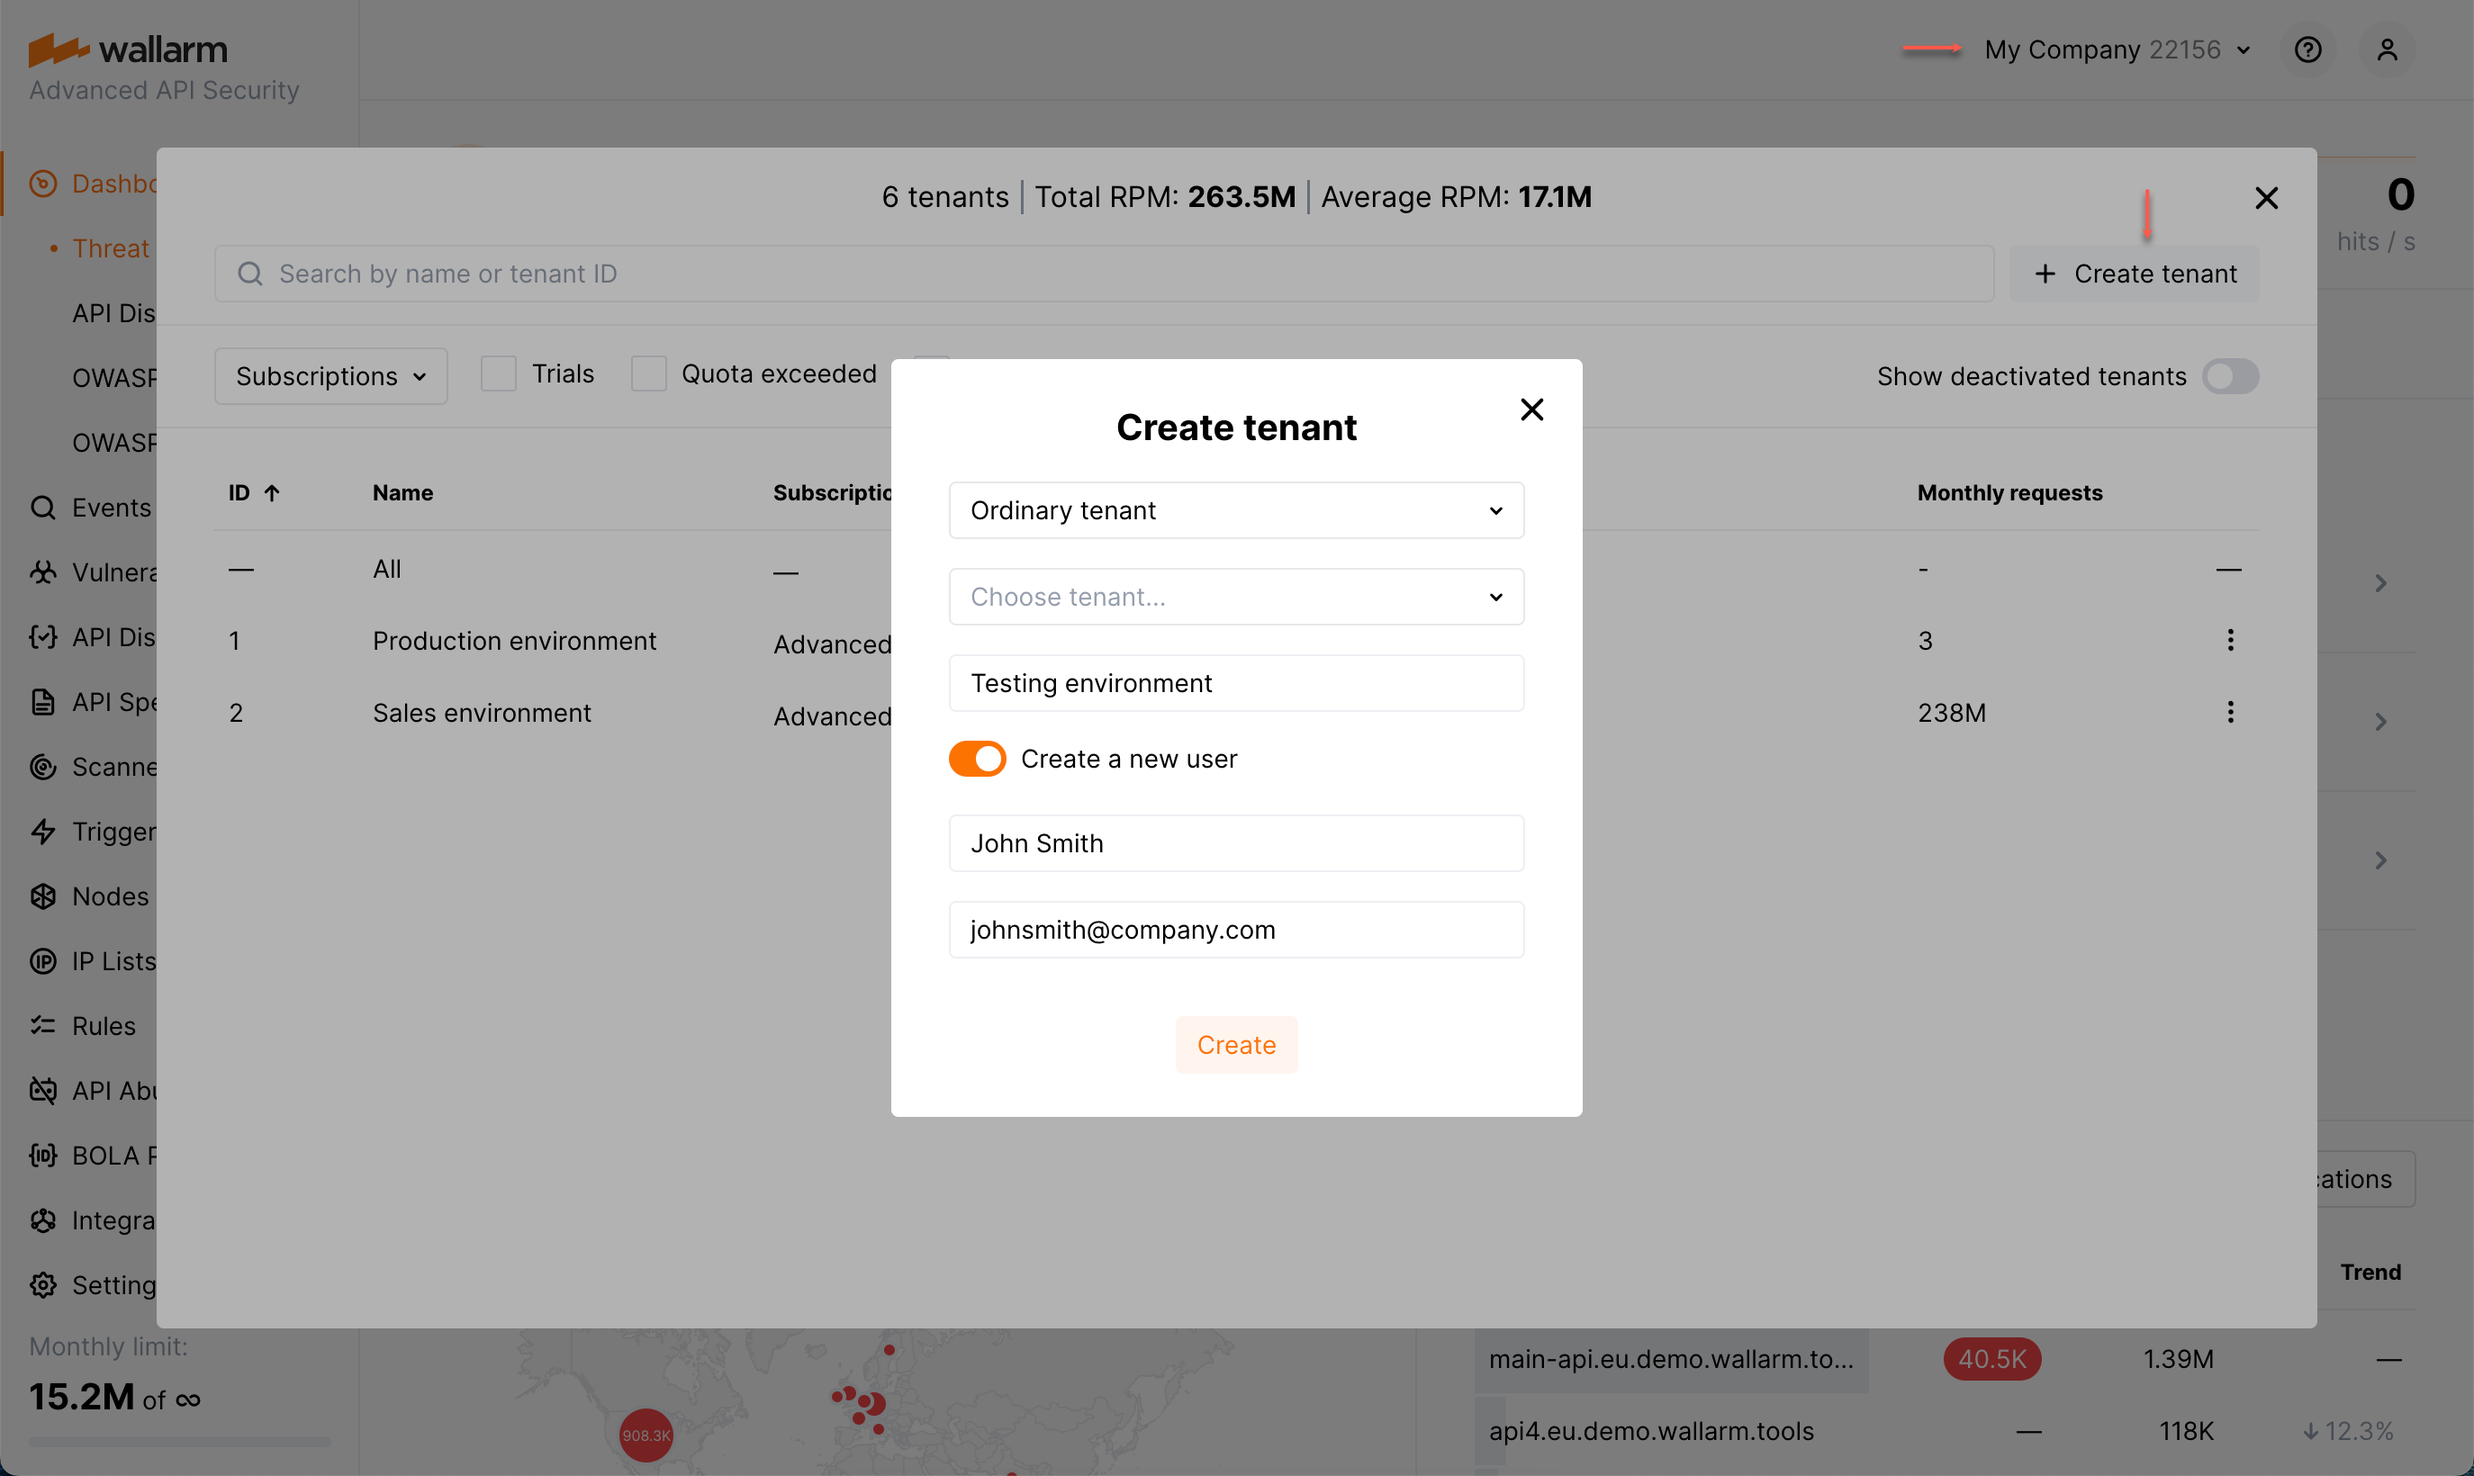
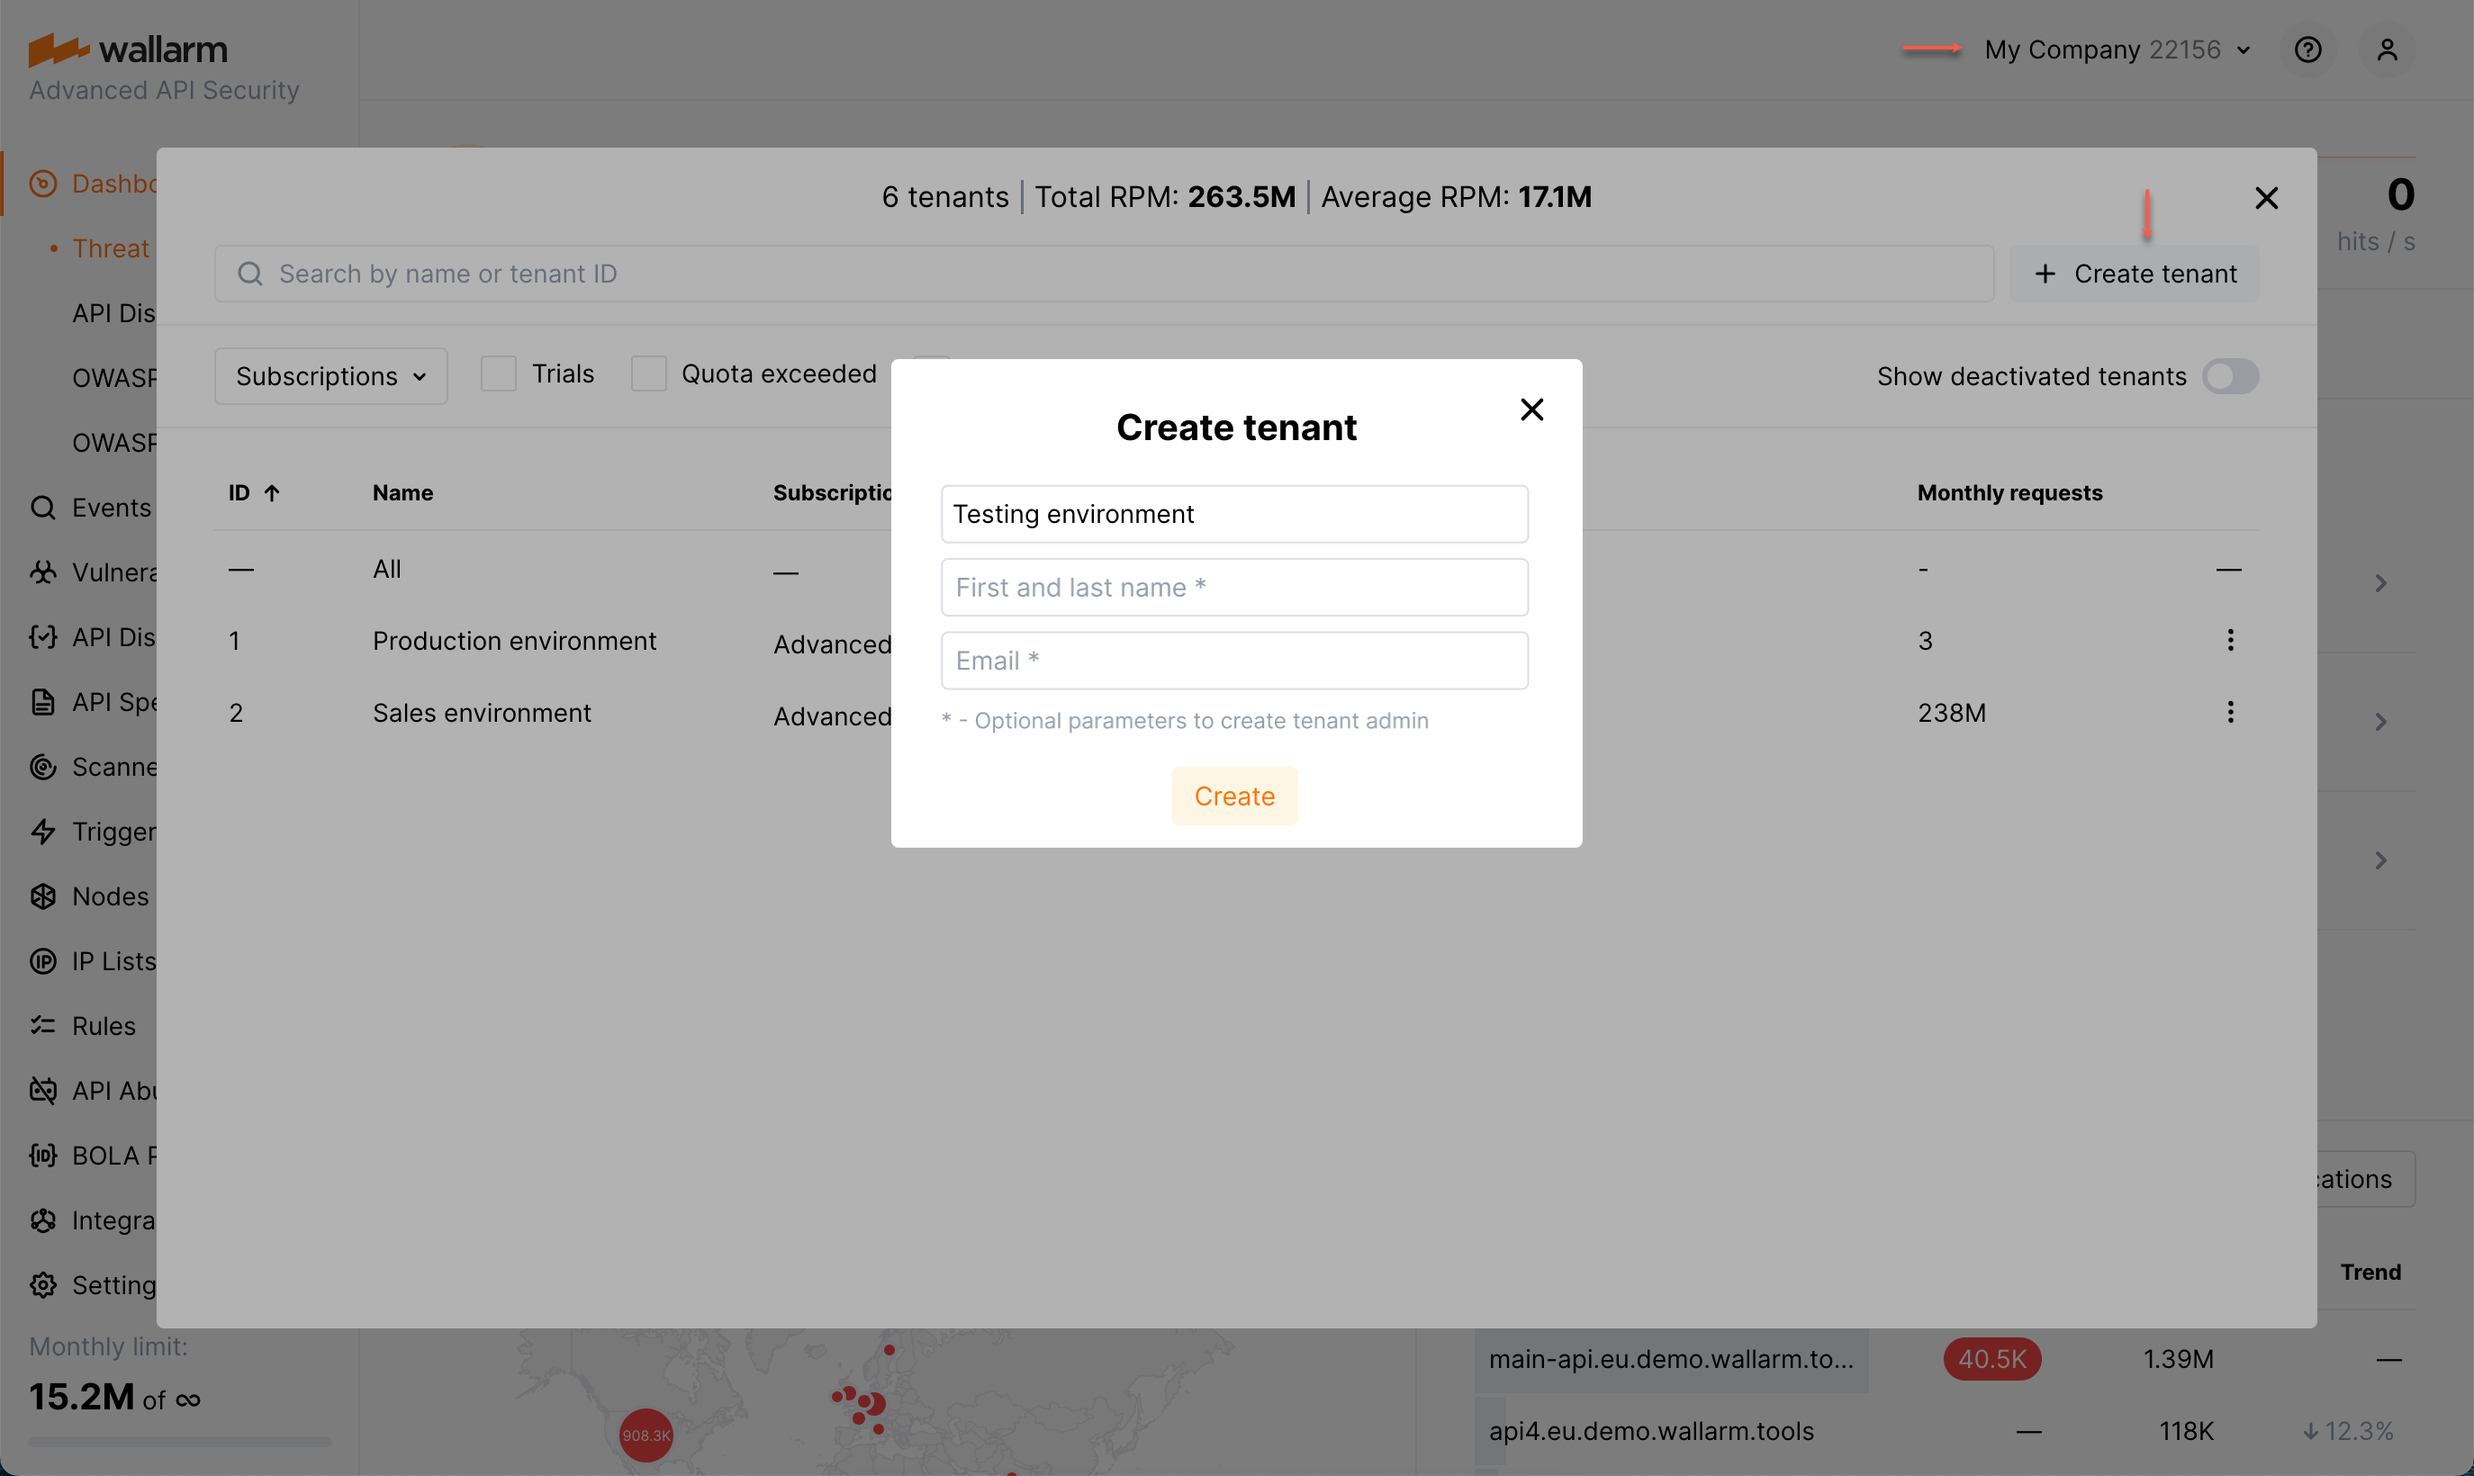
DOCS-2114 Fixes due to comments

Changed region(s): [[0.3402, 0.3421, 0.6496, 0.7774], [0.5877, 0.3421, 0.6186, 0.4354]]

diff --git a/docs/latest/installation/multi-tenant/configure-accounts.md b/docs/latest/installation/multi-tenant/configure-accounts.md
@@ -81,18 +81,7 @@ Under the **Global administrator** account, you can create tenants via Wallarm C
 
 ![!Creating tenant via Wallarm Console](../../images/partner-waf-node/tenant-create-via-ui.png)
 
-Tenants can represent [different entities](overview.md), thus select:
-
-* **Partner** - to represent an independent company that installs a filtering node within its system infrastructure to provide it's clients with attack mitigation.
-* **Multi-tenant customer** - to represent an independent company that wants to isolate the data on protected environments from each other by creating further sub-tenants.
-* **Ordinary tenant** (default) - to represent:
-
-    * An independent company that does not plan to isolate the data on protected environments from each other and thus does not plan to create further sub-tenants.
-    * An isolated environment itself.
-
-You can create a new **Administrator** user for your new tenant via the **Create a new user** option. The invitation email will be sent to the specified address.
-
-For the newly created tenant
+You can create a new **Administrator** user for your new tenant. The invitation email will be sent to the specified address.
 
 #### Via the Wallarm API
 
